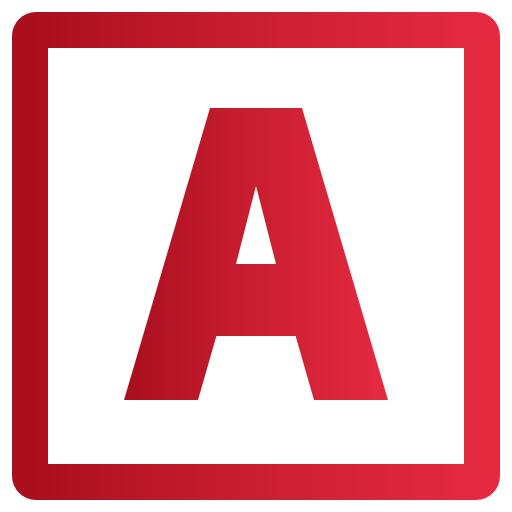
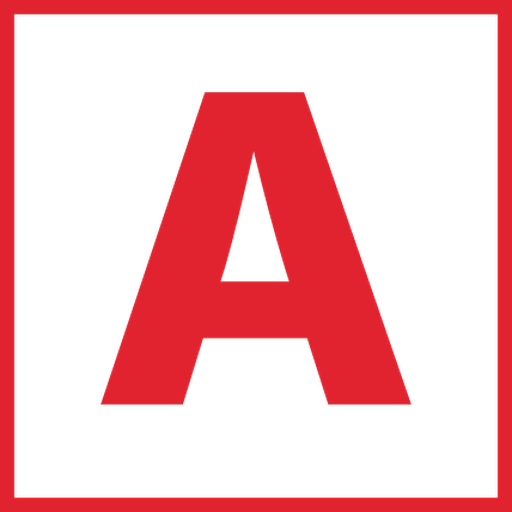
Actualiza los logotipos de la web

diff --git a/index.html b/index.html
@@ -128,7 +128,7 @@
     }
     .navbar { min-height: 78px; display: flex; align-items: center; justify-content: space-between; gap: 24px; }
     .brand { display: inline-flex; align-items: center; color: var(--white); text-decoration: none; }
-    .brand-logo { width: 238px; height: auto; }
+    .brand-logo { width: 210px; max-height: 52px; height: auto; }
     .nav-links { display: flex; align-items: center; gap: 26px; margin: 0; padding: 0; list-style: none; }
     .nav-links a { color: rgba(255,255,255,.82); text-decoration: none; font-size: .92rem; font-weight: 600; }
     .nav-links a:not(.nav-cta):hover { color: var(--white); }
@@ -295,7 +295,7 @@
     .profile-logo {
       position: relative;
       z-index: 2;
-      width: min(360px, 74%);
+      width: min(300px, 66%);
       height: auto;
     }
     @media (prefers-reduced-motion: reduce) {
@@ -429,7 +429,7 @@
     @media (max-width: 720px) {
       .container { width: min(100% - 28px, 1160px); }
       .navbar { min-height: 72px; }
-      .brand-logo { width: 188px; }
+      .brand-logo { width: 188px; max-height: 46px; }
       .nav-links { inset: 73px 0 auto; }
       .hero::after { right: -410px; }
       .hero-grid { padding-block: 62px 70px; gap: 52px; }
@@ -515,7 +515,7 @@
   <header class="site-header">
     <nav class="navbar container" aria-label="Navegación principal">
       <a class="brand" href="#inicio" aria-label="Antonio Aláez, inicio">
-        <img class="brand-logo" src="assets/alaez-logo-light.svg" alt="Aláez — Procurador de los Tribunales" width="720" height="132">
+        <img class="brand-logo" src="assets/alaez-logo-horizontal-light.svg" alt="Aláez — Procurador de los Tribunales" width="1000" height="310">
       </a>
       <button class="menu-toggle" type="button" aria-expanded="false" aria-controls="main-menu" aria-label="Abrir menú">
         <svg viewBox="0 0 24 24" fill="none" stroke="currentColor" stroke-width="1.8" aria-hidden="true">
@@ -696,7 +696,7 @@
         <div class="profile-visual" aria-hidden="true">
           <img class="profile-photo profile-photo--windows" src="assets/catedral-vidrieras-leon.jpg" alt="">
           <img class="profile-photo profile-photo--exterior" src="assets/catedral-exterior-leon.jpg" alt="">
-          <img class="profile-logo" src="assets/alaez-logo-light.svg" alt="" width="720" height="132">
+          <img class="profile-logo" src="assets/alaez-logo-vertical-light.svg" alt="" width="920" height="480">
         </div>
         <div class="profile-content">
           <p class="eyebrow light">Perfil profesional</p>
@@ -872,7 +872,7 @@
     <div class="container">
       <div class="footer-top">
         <a class="brand" href="#inicio" aria-label="Antonio Aláez, volver al inicio">
-          <img class="brand-logo" src="assets/alaez-logo-light.svg" alt="Aláez — Procurador de los Tribunales" width="720" height="132">
+          <img class="brand-logo" src="assets/alaez-logo-horizontal-light.svg" alt="Aláez — Procurador de los Tribunales" width="1000" height="310">
         </a>
         <ul class="footer-nav">
           <li><a href="#servicios">Servicios</a></li>
